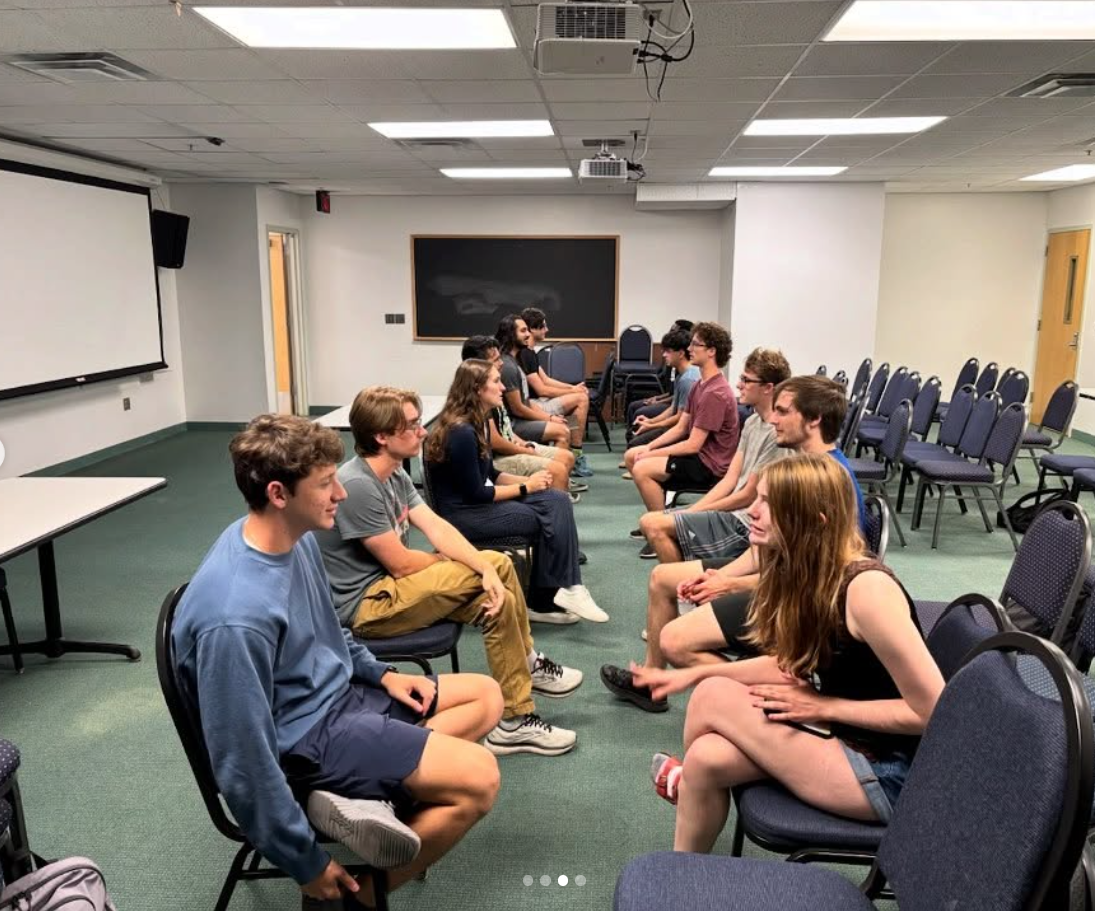
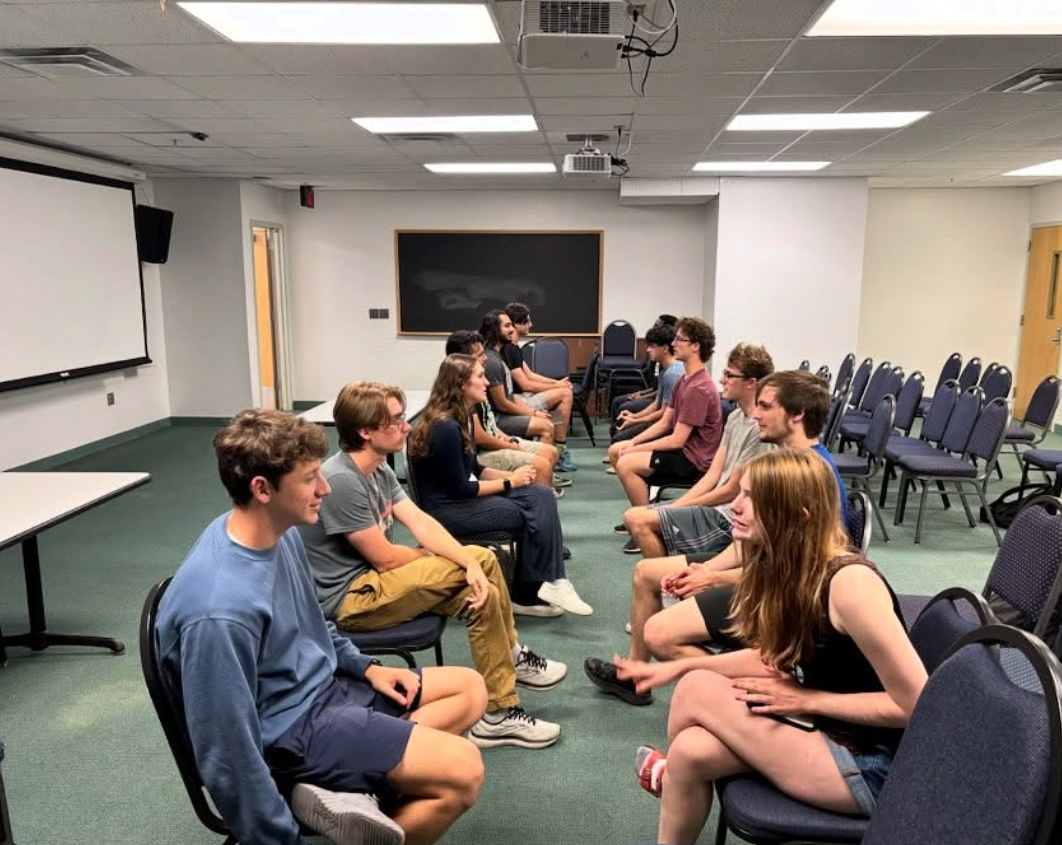
fixed image sizes and placed correct images

diff --git a/docs/outreach.html b/docs/outreach.html
@@ -28,7 +28,7 @@
         <br>
 
         <img src = "./files/outreach_photos/speed_dating_2025.png" alt = "SPS Speed Dating 2025" 
-        width = "756" height = "567"/>
+        width = "756" height = "458"/>
         <p>SPS Mentor Mentee Speed Dating!</p>
 
         <br>
